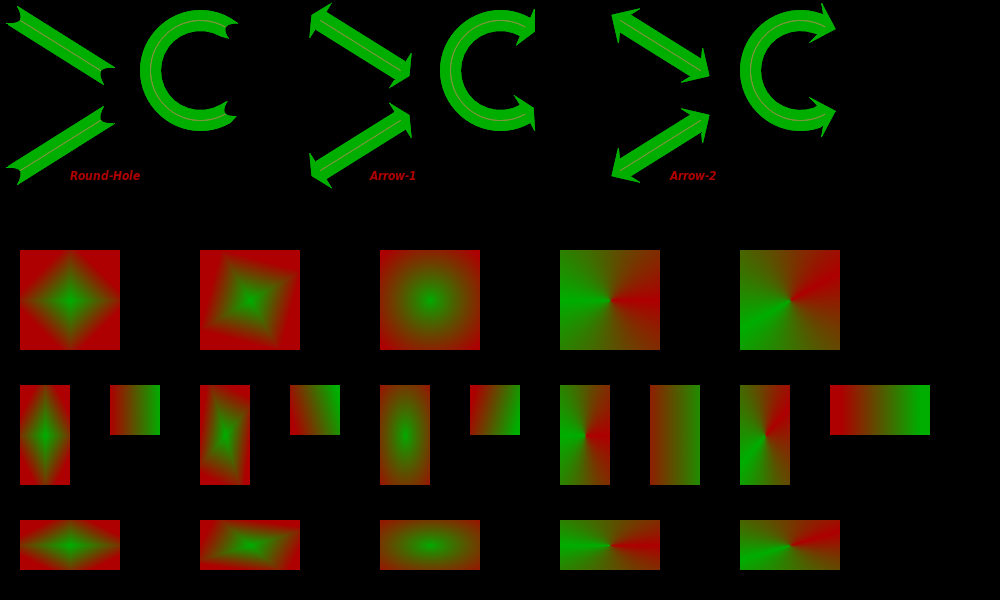
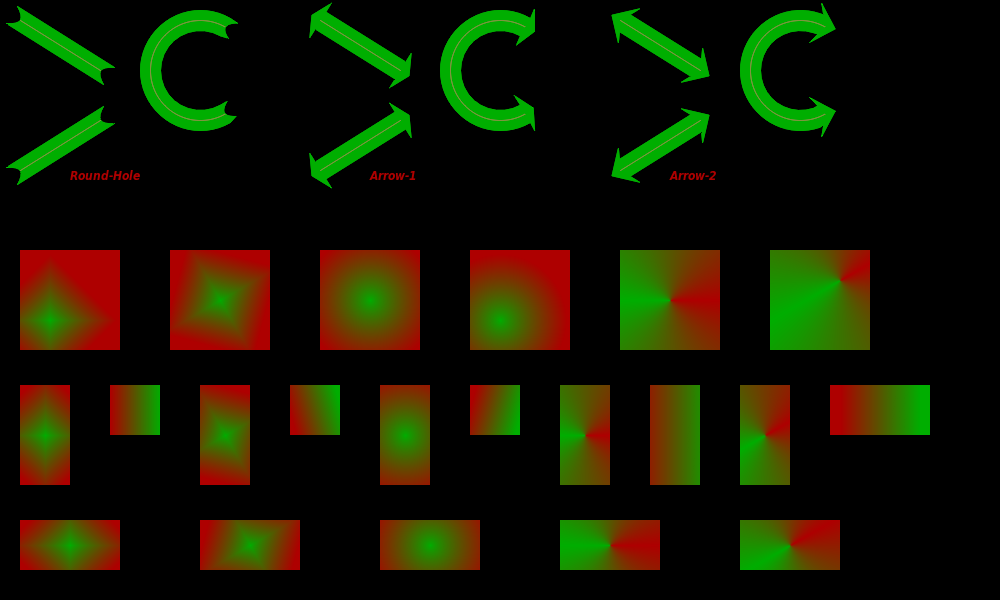
Fixing gradient

diff --git a/src/Pt-Gfx/Rasterizer2.cpp b/src/Pt-Gfx/Rasterizer2.cpp
@@ -684,18 +684,28 @@ void Rasterizer2::updateGradientBrush_gen2DConicalGradient(Pt::int32_t width, Pt
     const float hiLim = 0.75f;
 #endif
 
-    // Extract and calculate the parameters
-    const float angle = _brush.gradientAngle();
-    const float scale = 1.0;
+    // Calculate the focus point
+    float centerX = 0.0f;
+    float centerY = 0.0f;
 
-    float ctrX, ctrY, xyRat, yxRat;
-    updateGradientBrush_getCtrRatXY(ctrX, ctrY, xyRat, yxRat, width, height);
+    if(_brush.positionMode() == Brush::Absolute)
+    {
+        centerX = _brush.gradientFocus().x();
+        centerY = _brush.gradientFocus().y();
+    }
+    else // Brush::Relative
+    {
+        centerX = width  * _brush.gradientFocus().x();
+        centerY = height * _brush.gradientFocus().y();
+    }
+
+    // Get the rotation angle
+    const float angle = _brush.gradientAngle();
 
 #ifndef CONICAL_GRADIENT_USE_SMOOTH_TRANSITION
-    const float ang45 =  angle - floor(angle / 45.0f) * 45.0f;
-    const float ang90 =  angle - floor(angle / 90.0f) * 90.0f;
-    const bool  asym  = (xyRat != yxRat);
-    const bool  useAA = (_aaMode) && (ang90 >= 0.1f) && (asym || ang45 >= 0.1f);
+    // Determine if the transition area needs to be anti-aliased
+    const const float ang90 =  angle - floor(angle / 90.0f) * 90.0f;
+    const const bool  useAA = (_aaMode) && (ang90 >= 0.1f);
 #endif
 
     // Calculate the rotation
@@ -708,15 +718,15 @@ void Rasterizer2::updateGradientBrush_gen2DConicalGradient(Pt::int32_t width, Pt
 
     for(Pt::int32_t y = 0; y < height; ++y) {
         // Calculate the delta Y
-        const float dy = -(y - ctrY) * xyRat; // Sign inversion due to differences between cartesian and computer coordinate systems
+        const float dy = -(y - centerY); // Sign inversion due to differences between cartesian and computer coordinate systems
         for(Pt::int32_t x = 0; x < width; ++x) {
             // Calculate the delta X
-            const float dx = (x - ctrX) * yxRat;
+            const float dx = (x - centerX);
             // Calculate the rotated deltas
             const float ry = (-sval * dx + cval * dy);
             const float rx = ( cval * dx + sval * dy);
             // Calculate the distance
-            float dist = (std::atan2(ry, rx) + pi<float>()) / piDouble<float>() / scale;
+            float dist = (std::atan2(ry, rx) + pi<float>()) / piDouble<float>();
                  if(dist < 0.0f) dist = 0.0f;
             else if(dist > 1.0f) dist = 1.0f;
 #ifdef CONICAL_GRADIENT_USE_SMOOTH_TRANSITION
@@ -762,8 +772,8 @@ void Rasterizer2::updateGradientBrush_gen2DConicalGradient(Pt::int32_t width, Pt
                 dist = 0.0f;
                 for(Pt::int32_t i = 0; i < ijm; ++i) {
                     for(Pt::int32_t j = 0; j < ijm; ++j) {
-                        const float dxs =  (x + i - ijm2 - ctrX) * yxRat;
-                        const float dys = -(y + j - ijm2 - ctrY) * xyRat; // Sign inversion due to differences between cartesian and computer coordinate systems
+                        const float dxs =  (x + i - ijm2 - centerX);
+                        const float dys = -(y + j - ijm2 - centerY); // Sign inversion due to differences between cartesian and computer coordinate systems
                         const float rxs = ( cval * dxs + sval * dys);
                         const float rys = (-sval * dxs + cval * dys);
                         dist += (std::atan2(rys, rxs) + pi<float>()) / piDouble<float>();
@@ -799,16 +809,6 @@ void Rasterizer2::updateGradientBrush_getStartEndColors(Pt::uint8_t rgbaStart[4]
     rgbaEnd [1] = _brush.gradientColor().green() / 257;
     rgbaEnd [2] = _brush.gradientColor().blue () / 257;
     rgbaEnd [3] = _brush.gradientColor().alpha() / 257;
-}
-
-
-void Rasterizer2::updateGradientBrush_getCtrRatXY(float& ctrX, float& ctrY, float &xyRat, float& yxRat, Pt::int32_t width, Pt::int32_t height)
-{
-    ctrX  = width  * 0.5f + _brush.offsetX();
-    ctrY  = height * 0.5f + _brush.offsetY();
-
-    xyRat = (ctrX > ctrY) ? (ctrX / ctrY) : 1.0f;
-    yxRat = (ctrY > ctrX) ? (ctrY / ctrX) : 1.0f;
 }
 
 

diff --git a/src/Pt-Gfx/tests/ImagePainterTest2_Draw_Extra.cpp b/src/Pt-Gfx/tests/ImagePainterTest2_Draw_Extra.cpp
@@ -71,7 +71,7 @@ static void testDrawExtra(const char* title, Image& image, Painter& painter)
     // --- Part 1 ---
 
     // Rectangular gradient
-    painter.setBrush( Brush::rectangularGradient(Color::fromRgb8(255, 0, 0, 175), Color::fromRgb8(0, 255, 0, 175) ) );
+    painter.setBrush( Brush::rectangularGradient(Color::fromRgb8(255, 0, 0, 175), Color::fromRgb8(0, 255, 0, 175), 0.3f, 0.7f ) );
     painter.fillRect( RectF(PointF(20, 250), SizeF(100, 100)) );
 
     painter.setBrush( Brush::rectangularGradient(Color::fromRgb8(255, 0, 0, 175), Color::fromRgb8(0, 255, 0, 175), 0.5f, 0.5f, 30.0f) );
@@ -88,7 +88,7 @@ static void testDrawExtra(const char* title, Image& image, Painter& painter)
     painter.setBrush( Brush::conicalGradient( Color::fromRgb8(255, 0, 0, 175), Color::fromRgb8(0, 255, 0, 175) ) );
     painter.fillRect( RectF(PointF(20 + 600, 250), SizeF(100, 100)) );
 
-    painter.setBrush( Brush::conicalGradient(Color::fromRgb8(255, 0, 0, 175), Color::fromRgb8(0, 255, 0, 175), 0.5f, 0.5f, 30.0f) );
+    painter.setBrush( Brush::conicalGradient(Color::fromRgb8(255, 0, 0, 175), Color::fromRgb8(0, 255, 0, 175), 0.7f, 0.3f, 30.0f) );
     painter.fillRect( RectF(PointF(20 + 750, 250), SizeF(100, 100)) );
 
     // --- Part 2 ---
@@ -115,10 +115,10 @@ static void testDrawExtra(const char* title, Image& image, Painter& painter)
     painter.setBrush( Brush::linearGradient(Color::fromRgb8(255, 0, 0, 175), Color::fromRgb8(0, 255, 0, 175)) );
     painter.fillRect( RectF(PointF(20 + 90, 250 + 135), SizeF(50, 50)) );
 
-    painter.setBrush( Brush::linearGradient(Color::fromRgb8(255, 0, 0, 175), Color::fromRgb8(0, 255, 0, 175), 15.0f) );
+    painter.setBrush( Brush::linearGradient(Color::fromRgb8(255, 0, 0, 175), Color::fromRgb8(0, 255, 0, 175), 0.5f, 0.5f, 15.0f) );
     painter.fillRect( RectF(PointF(20 + 90 + 180, 250 + 135), SizeF(50, 50)) );
 
-    painter.setBrush( Brush::linearGradient(Color::fromRgb8(255, 0, 0, 175), Color::fromRgb8(0, 255, 0, 175), -15.0f) );
+    painter.setBrush( Brush::linearGradient(Color::fromRgb8(255, 0, 0, 175), Color::fromRgb8(0, 255, 0, 175), 0.5f, 0.5f, -15.0f) );
     painter.fillRect( RectF(PointF(20 + 90 + 360, 250 + 135), SizeF(50, 50)) );
 
     painter.setBrush( Brush::linearGradient(Color::fromRgb8(255, 0, 0, 175), Color::fromRgb8(0, 255, 0, 175)) );

diff --git a/src/Pt-Gfx/Brush.cpp b/src/Pt-Gfx/Brush.cpp
@@ -71,10 +71,19 @@ Brush Brush::horizontalGradient(const Color& from, const Color& to)
 
 
 Brush Brush::linearGradient(const Color& from, const Color& to,
-                            float angle)
+                            const PointF& focus, float angle)
 {
     BrushData* data = new BrushData();
-    data->setLinearGradient(from, to, angle);
+    data->setLinearGradient(from, to, focus, angle);
+    return Brush(data);
+}
+
+
+Brush Brush::linearGradient(const Color& from, const Color& to,
+                            float rx, float ry, float angle)
+{
+    BrushData* data = new BrushData();
+    data->setLinearGradient(from, to, rx, ry, angle);
     return Brush(data);
 }
 
@@ -269,7 +278,24 @@ BrushData::BrushData(const Color& from, const Color& to,
 
 
 void BrushData::setLinearGradient(const Color& from, const Color& to,
-                                  float angle)
+                                  const PointF& focus, float angle)
+{
+    _isNull        = false;
+    _fillStyle     = Brush::Gradient;
+    _positionMode  = Brush::Absolute;
+    _color         = from;
+    _gradient      = Brush::Linear;
+    _gradientColor = to;
+    _gradientAngle = angle;
+    _gradientFocus = focus;
+    _ofsX          = 0;
+    _ofsY          = 0;
+    _texture       = Image();
+}
+
+
+void BrushData::setLinearGradient(const Color& from, const Color& to,
+                                  float rx, float ry, float angle)
 {
     _isNull        = false;
     _fillStyle     = Brush::Gradient;
@@ -278,7 +304,7 @@ void BrushData::setLinearGradient(const Color& from, const Color& to,
     _gradient      = Brush::Linear;
     _gradientColor = to;
     _gradientAngle = angle;
-    _gradientFocus.set(0.5, 0.5);
+    _gradientFocus.set(rx, ry);
     _ofsX          = 0;
     _ofsY          = 0;
     _texture       = Image();

diff --git a/include/Pt/Gfx/Brush.h b/include/Pt/Gfx/Brush.h
@@ -78,8 +78,10 @@ class PT_GFX_API Brush
 
         static Brush horizontalGradient(const Color& from, const Color& to);
 
+        /** @brief Constructs a absolute positioned linear gradient.
+        */
         static Brush linearGradient(const Color& from, const Color& to,
-                                    float angle = 0.0f);
+                                    const PointF& focus, float angle = 0.0f);
 
         /** @brief Constructs a absolute positioned radial gradient.
         */
@@ -95,6 +97,11 @@ class PT_GFX_API Brush
         */
         static Brush rectangularGradient(const Color& from, const Color& to,
                                          const PointF& focus, float angle = 0.0f);
+
+        /** @brief Constructs a relative positioned linear gradient.
+        */
+        static Brush linearGradient(const Color& from, const Color& to,
+                                    float rx = 0.5, float ry = 0.5, float angle = 0.0f);
 
         /** @brief Constructs a relative positioned rectangular gradient.
         */
@@ -199,7 +206,10 @@ class BrushData
         { return _color; }
 
         void setLinearGradient(const Color& from, const Color& to,
-                               float angle);
+                               const PointF& focus, float angle);
+
+        void setLinearGradient(const Color& from, const Color& to,
+                               float rx, float ry, float angle);
 
         void setRadialGradient(const Color& from, const Color& to,
                                const PointF& focus);

diff --git a/src/Pt-Gfx/tests/ImagePainterTest2.cpp b/src/Pt-Gfx/tests/ImagePainterTest2.cpp
@@ -67,7 +67,7 @@ using namespace Pt::Gfx;
 
 // Detailed-test enable settings for Pt-Gfx
 #define TEST_SOURCECOPY                         1
-#define TEST_SOURCEOVER                         0
+#define TEST_SOURCEOVER                         1
 
 #define TEST_DRAW_SOLID_LINE_AND_TEXT           0 // (including bezier)
 #define TEST_DRAW_PATTERNED_LINE                0 // (including bezier)
